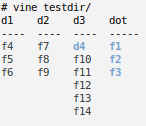
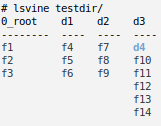
update examples in readme and screenshot

diff --git a/README.md b/README.md
@@ -20,14 +20,23 @@ pip3 install lsvine
 lsvine, version 0.1.0
 
 # lsvine .
-screenshots    testdir    lsvine       lsvine.egg-info       dot
--------------  ---------  -----------  --------------------  -------------
-ls.png         d1         __init__.py  PKG-INFO              CHANGELOG
-tree.png       d2         __pycache__  SOURCES.txt           DEVELOPER.md
-lsvine.png     d3         cli.py       dependency_links.txt  LICENSE
-               f1                      entry_points.txt      README.md
-               f2                      requires.txt          mk_testdir.sh
-               f3                      top_level.txt         setup.py
+0_root         build               dist                           lsvine       lsvine.egg-info
+-------------  ------------------  -----------------------------  -----------  --------------------
+CHANGELOG      bdist.linux-x86_64  lsvine-0.1.2-py3-none-any.whl  __init__.py  PKG-INFO
+DEVELOPER.md   lib                 lsvine-0.1.2.tar.gz            __pycache__  SOURCES.txt
+LICENSE                                                           cli.py       dependency_links.txt
+README.md                                                                      entry_points.txt
+mk_testdir.sh                                                                  requires.txt
+setup.py                                                                       top_level.txt
+
+screenshots    testdir
+-------------  ---------
+ls.png         d1
+lsvine.png     d2
+tree.png       d3
+               f1
+               f2
+               f3
 
 ```
 
@@ -46,12 +55,11 @@ testdir/
 ├── d1
 │   ├── f4
 │   ├── f5
-│   ├── f6
-│   └── f7
-├── d2
-│   ├── f4
-│   ├── f5
 │   └── f6
+├── d2
+│   ├── f7
+│   ├── f8
+│   └── f9
 ├── d3
 │   ├── d4
 │   │   └── f15
@@ -59,28 +67,23 @@ testdir/
 │   ├── f11
 │   ├── f12
 │   ├── f13
-│   ├── f14
-│   ├── f4
-│   ├── f5
-│   └── f6
+│   └── f14
 ├── f1
 ├── f2
 └── f3
 
-4 directories, 19 files
+4 directories, 15 files
+
 
 # lsvine testdir/
-d1    d2    d3    dot
-----  ----  ----  -----
-f4    f4    d4    f1
-f5    f5    f10   f2
-f6    f6    f11   f3
-f7          f12
-            f13
-            f14
-            f4
-            f5
-            f6
+0_root    d1    d2    d3
+--------  ----  ----  ----
+f1        f4    f7    d4
+f2        f5    f8    f10
+f3        f6    f9    f11
+                      f12
+                      f13
+                      f14
 
 ```
 
